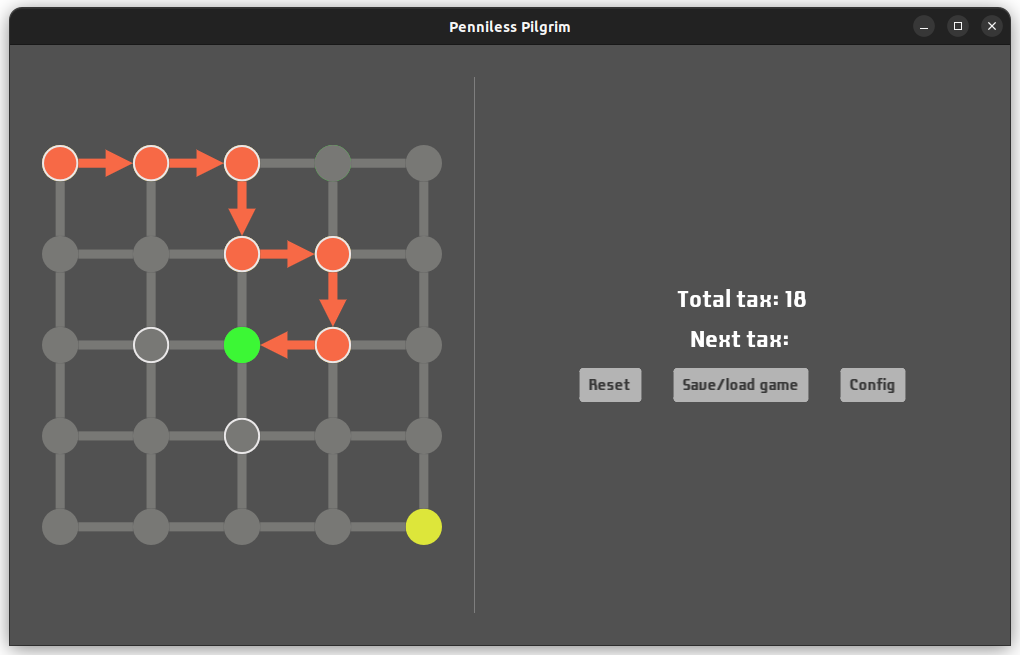
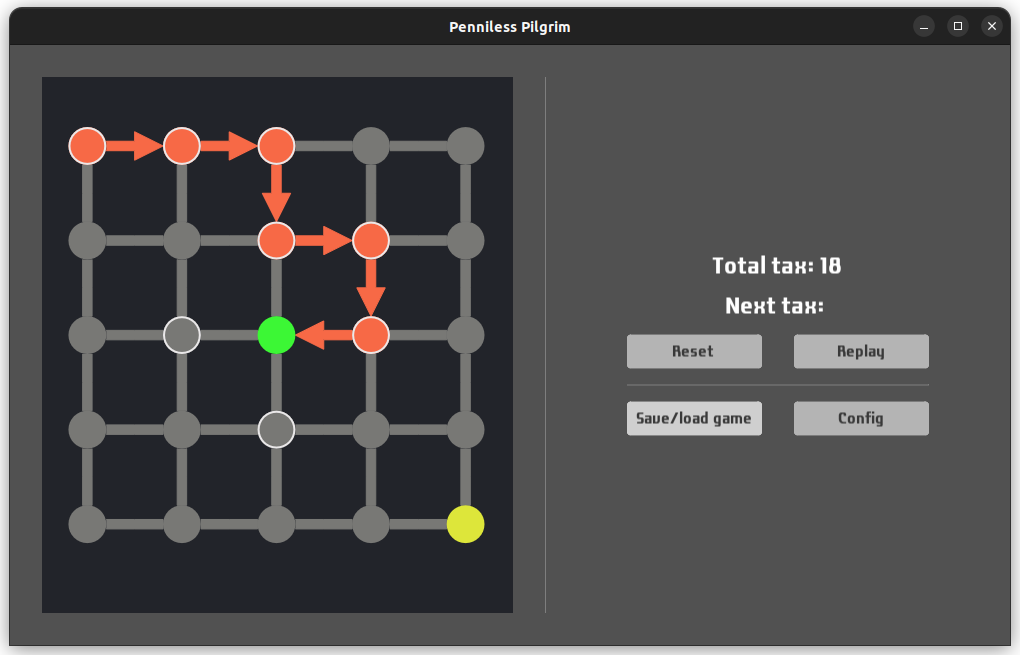
update README

diff --git a/README.md b/README.md
@@ -14,6 +14,8 @@
 - Pilgrim can be returned to any previous position.
 - Next tax shows when hovering over node if pilgrim can be moved there.
 - Grid can be resized to have different dimensions other than 5x5.
+- Grid can be zoomed and dragged by mouse.
+- Pilgrim path can be replayed.
 - Interface can be customized via [config.json](config.json).
 - Config can be saved and loaded from file.
 - Games can also be saved and loaded from file ([games.json](games.json)).
